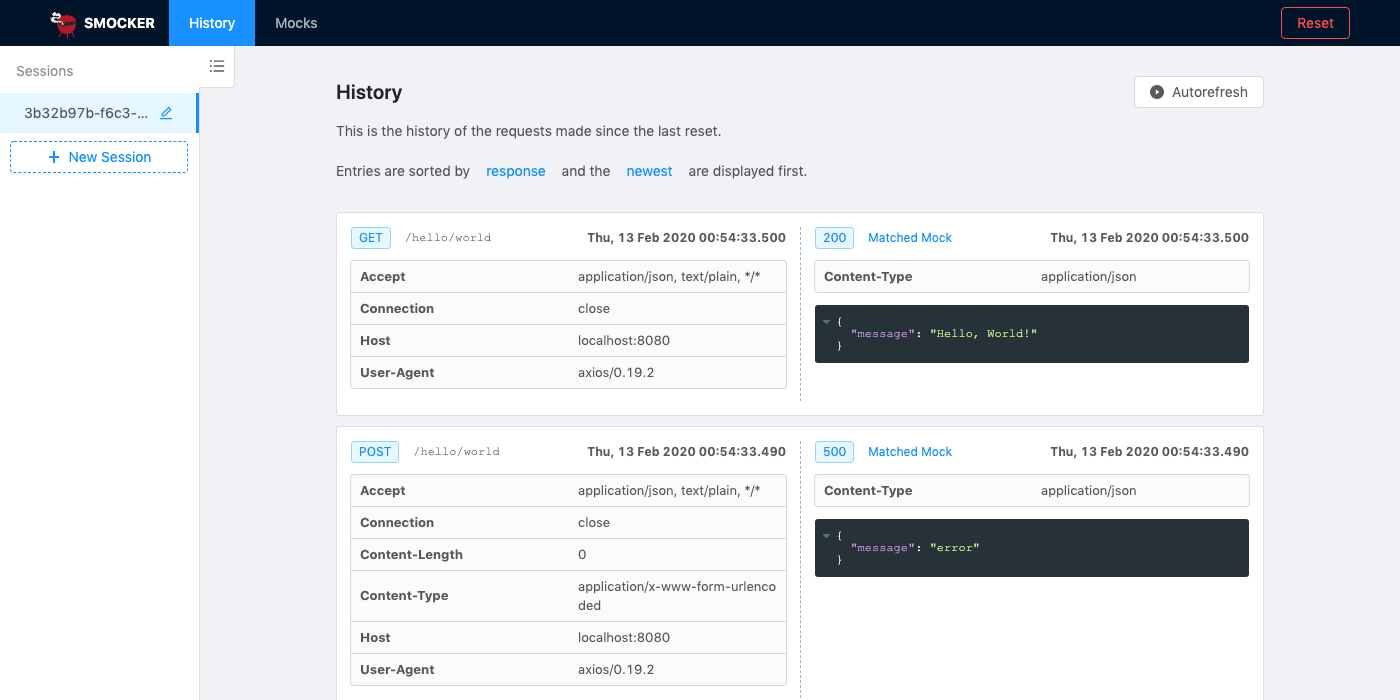
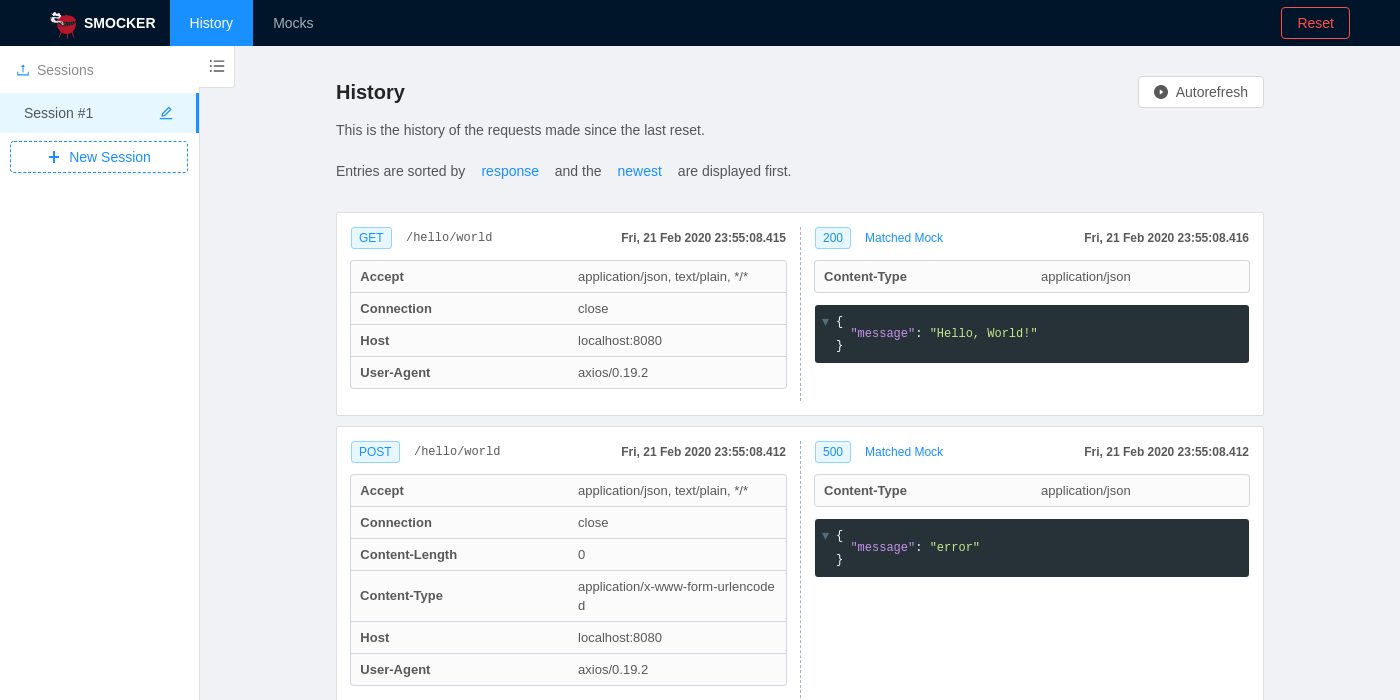
feat: be able to upload sessions in the UI

diff --git a/client/src/modules/reducers.ts b/client/src/modules/reducers.ts
@@ -4,11 +4,18 @@ import { Actions, actions } from "./actions";
 import { Error, History, Mocks, Sessions } from "./types";
 
 const loadingSessions = (state = false, action: Actions) => {
-  const { fetchSessions, newSession, updateSession, reset } = actions;
+  const {
+    fetchSessions,
+    newSession,
+    updateSession,
+    uploadSessions,
+    reset
+  } = actions;
   switch (action.type) {
     case getType(fetchSessions.request):
     case getType(newSession.request):
     case getType(updateSession.request):
+    case getType(uploadSessions.request):
     case getType(reset.request): {
       return true;
     }
@@ -18,6 +25,8 @@ const loadingSessions = (state = false, action: Actions) => {
     case getType(newSession.failure):
     case getType(updateSession.success):
     case getType(updateSession.failure):
+    case getType(uploadSessions.success):
+    case getType(uploadSessions.failure):
     case getType(reset.success):
     case getType(reset.failure): {
       return false;
@@ -28,12 +37,19 @@ const loadingSessions = (state = false, action: Actions) => {
 };
 
 const sessionList = (state: Sessions = [], action: Actions) => {
-  const { fetchSessions, newSession, updateSession, reset } = actions;
+  const {
+    fetchSessions,
+    newSession,
+    updateSession,
+    uploadSessions,
+    reset
+  } = actions;
   switch (action.type) {
     case getType(reset.success): {
       return [];
     }
-    case getType(fetchSessions.success): {
+    case getType(fetchSessions.success):
+    case getType(uploadSessions.success): {
       return [...action.payload];
     }
     case getType(newSession.success): {
@@ -50,17 +66,25 @@ const sessionList = (state: Sessions = [], action: Actions) => {
 };
 
 const sessionError = (state: Error | null = null, action: Actions) => {
-  const { fetchSessions, newSession, updateSession, reset } = actions;
+  const {
+    fetchSessions,
+    newSession,
+    updateSession,
+    uploadSessions,
+    reset
+  } = actions;
   switch (action.type) {
     case getType(fetchSessions.failure):
     case getType(newSession.failure):
     case getType(updateSession.failure):
+    case getType(uploadSessions.failure):
     case getType(reset.failure): {
       return action.payload;
     }
     case getType(fetchSessions.success):
     case getType(newSession.success):
     case getType(updateSession.success):
+    case getType(uploadSessions.success):
     case getType(reset.success): {
       return null;
     }
@@ -75,6 +99,7 @@ const selectedSession = (state: string = "", action: Actions) => {
     newSession,
     selectSession,
     updateSession,
+    uploadSessions,
     reset
   } = actions;
   switch (action.type) {
@@ -88,7 +113,8 @@ const selectedSession = (state: string = "", action: Actions) => {
     case getType(updateSession.success): {
       return action.payload.id;
     }
-    case getType(fetchSessions.success): {
+    case getType(fetchSessions.success):
+    case getType(uploadSessions.success): {
       if (!state) {
         return "";
       }

diff --git a/client/src/components/Sidebar.tsx b/client/src/components/Sidebar.tsx
@@ -13,7 +13,8 @@ import {
   Popover,
   Row,
   Spin,
-  Typography
+  Typography,
+  Tooltip
 } from "antd";
 import "./Sidebar.scss";
 import { Sessions, Session } from "~modules/types";
@@ -83,6 +84,7 @@ interface Props {
   selectSession: (sessionID: string) => void;
   newSession: () => void;
   updateSession: (session: Session) => void;
+  uploadSessions: (sessions: any[]) => void;
 }
 
 const SideBar = ({
@@ -92,7 +94,8 @@ const SideBar = ({
   loading,
   selectSession,
   updateSession,
-  newSession
+  newSession,
+  uploadSessions
 }: Props) => {
   const [, , setPolling] = usePoll(10000, fetch);
   if (!selected && sessions.length > 0) {
@@ -119,8 +122,34 @@ const SideBar = ({
     </Menu.Item>
   ));
 
+  const onFileUpload = (event: any) => {
+    const file = event.target.files[0];
+    const reader = new FileReader();
+    reader.onload = (ev: any) => {
+      try {
+        const sessionToUpload = JSON.parse(ev.target.result);
+        uploadSessions(sessionToUpload);
+      } catch (e) {
+        console.error(e); // tslint:disable-line no-console
+      }
+    };
+    reader.readAsText(file);
+  };
+
   const title: any = (
     <Spin spinning={loading}>
+      <Tooltip
+        title="Upload a session file"
+        placement="right"
+        mouseEnterDelay={0.5}
+      >
+        <label>
+          <input type="file" onChange={onFileUpload} />
+          <a>
+            <Icon type="upload" />
+          </a>
+        </label>
+      </Tooltip>
       <span>Sessions</span>
     </Spin>
   );
@@ -161,6 +190,8 @@ export default connect(
       dispatch(actions.selectSession(sessionID)),
     newSession: () => dispatch(actions.newSession.request()),
     updateSession: (session: Session) =>
-      dispatch(actions.updateSession.request(session))
+      dispatch(actions.updateSession.request(session)),
+    uploadSessions: (sessions: Sessions) =>
+      dispatch(actions.uploadSessions.request(sessions))
   })
 )(SideBar);

diff --git a/client/src/modules/epics.ts b/client/src/modules/epics.ts
@@ -17,6 +17,7 @@ const {
   fetchSessions,
   newSession,
   updateSession,
+  uploadSessions,
   fetchHistory,
   fetchMocks,
   addMocks,
@@ -79,6 +80,27 @@ const updateSessionEpic: Epic<Actions> = action$ =>
           }),
           catchError(error => {
             return of(updateSession.failure(extractError(error)));
+          })
+        );
+    })
+  );
+
+const uploadSessionsEpic: Epic<Actions> = action$ =>
+  action$.pipe(
+    filter(isActionOf(uploadSessions.request)),
+    exhaustMap(action => {
+      return ajax
+        .post(trimedPath + "/sessions/import", action.payload, {
+          "Content-Type": "application/json"
+        })
+        .pipe(
+          mergeMap(({ response }) => {
+            return decode(SessionsCodec)(response).pipe(
+              map(resp => uploadSessions.success(resp))
+            );
+          }),
+          catchError(error => {
+            return of(uploadSessions.failure(extractError(error)));
           })
         );
     })
@@ -157,6 +179,7 @@ export default combineEpics(
   fetchSessionsEpic,
   newSessionEpic,
   updateSessionEpic,
+  uploadSessionsEpic,
   fetchHistoryEpic,
   fetchMocksEpic,
   addMocksEpic,

diff --git a/client/src/modules/actions.ts b/client/src/modules/actions.ts
@@ -19,6 +19,12 @@ const updateSession = createAsyncAction(
   "@APP/SESSIONS/UPDATE/FAILURE"
 )<Session, Session, Error>();
 
+const uploadSessions = createAsyncAction(
+  "@APP/SESSIONS/UPLOAD",
+  "@APP/SESSIONS/UPLOAD/SUCCESS",
+  "@APP/SESSIONS/UPLOAD/FAILURE"
+)<any[], Sessions, Error>();
+
 const selectSession = createAction("@APP/SESSIONS/SELECT")<string>();
 
 const fetchHistory = createAsyncAction(
@@ -54,6 +60,7 @@ export const actions = {
   newSession,
   updateSession,
   selectSession,
+  uploadSessions,
   fetchHistory,
   fetchMocks,
   addMocks,

diff --git a/client/src/components/Sidebar.scss b/client/src/components/Sidebar.scss
@@ -18,6 +18,15 @@
   .menu {
     height: 100%;
     border-right: 0;
+
+    input[type="file"] {
+      display: none;
+
+      & + a {
+        margin-right: 0.5em;
+      }
+    }
+
     .group {
       height: 100%;
       .ant-menu-item-group-title {
